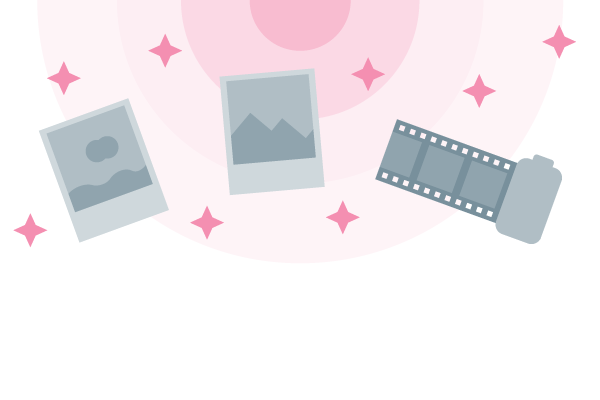
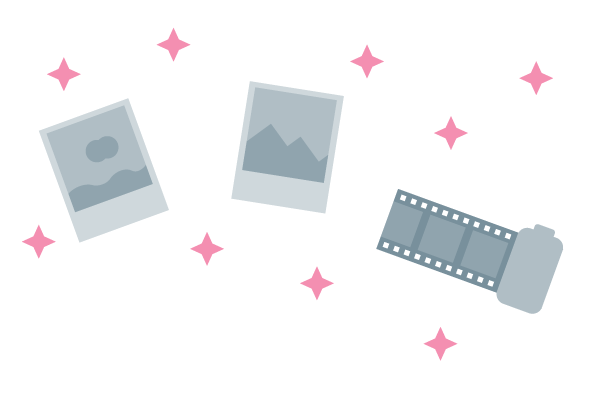
5.6
- Redesigned some images and made them smaller to improve loading times
- Changed a detail on the CV
- Added a logo and a website I made for a college project

diff --git a/es/index.html b/es/index.html
@@ -83,7 +83,7 @@
                     <p>Cursando 4º de Biología (Universidad de La Laguna 2015 - , itinerancia en Universidad de Valencia durante el curso 2018 - 2019)</p>
                     <p>Arbitro Regional de kárate competitivo (2016 - 2018)</p>
                     <p>Diseño de iconos, logos e IU en Dots Illustration (2015 - Presente)</p>
-                    <p>Certificado Computer Science 101 en Stanford Online (Accomplishment 86%)</p>
+                    <p>Certificados: Computer Science 101 en Stanford Online (Accomplishment 86%)</p>
                 </div>
                 <div class="col s12 m3 l3 xl3">
                     <p class="oospink-text">Habilidades</p>
@@ -192,7 +192,7 @@
                     <a href="https://plus.google.com/+LaureanoRuizP%C3%A9rez/posts/NvJfTHqBYvA">
                         <div class="card  md2card">
                             <div class="card-image">
-                                <img src="../img/playlists_covers.jpg">
+                                <img src="../img/playlists_covers.png">
                             </div>
                             <div class="card-content">
                                 <a class="card-title left">Portadas Playlists</a>
@@ -209,6 +209,19 @@
                             </div>
                             <div class="card-content">
                                 <a class="card-title left">Jornadas de Genética</a>
+                            </div>
+                        </div>
+                    </a>
+                </div>
+                <!-- ANAGAREST1 LOGO -->
+                <div class="col s12 m4 l3 xl3">
+                    <a href="https://http://anagarest1.es">
+                        <div class="card md2card">
+                            <div class="card-image">
+                                <img src="../img/anagarest1_logo.png">
+                            </div>
+                            <div class="card-content">
+                                <a class="card-title left">Proyecto AnagaRest1</a>
                             </div>
                         </div>
                     </a>

diff --git a/index.html b/index.html
@@ -83,7 +83,7 @@
                     <p>Studying 4th of Biology (University of La Laguna 2015 - , itinerancy at University of Valencia during 2018 - 2019)</p>
                     <p>Regional Referee of Karate (2016 - 2018)</p>
                     <p>Icons, logos and UI design at Dots Illustration (2015 - Present)</p>
-                    <p>Computer Science 101 certificate on Stanford Online (Accomplishment 86%)</p>
+                    <p>Certificates: Computer Science 101 on Stanford Online (Accomplishment 86%)</p>
                 </div>
                 <div class="col s12 m3 l3 xl3">
                     <p class="oospink-text">Skills</p>
@@ -192,7 +192,7 @@
                     <a href="https://plus.google.com/+LaureanoRuizP%C3%A9rez/posts/NvJfTHqBYvA">
                         <div class="card  md2card">
                             <div class="card-image">
-                                <img src="img/playlists_covers.jpg">
+                                <img src="img/playlists_covers.png">
                             </div>
                             <div class="card-content">
                                 <a class="card-title left">Playlists Covers</a>
@@ -209,6 +209,19 @@
                             </div>
                             <div class="card-content">
                                 <a class="card-title left">Genetics Meeting</a>
+                            </div>
+                        </div>
+                    </a>
+                </div>
+                <!-- ANAGAREST1 LOGO -->
+                <div class="col s12 m4 l3 xl3">
+                    <a href="https://http://anagarest1.es">
+                        <div class="card md2card">
+                            <div class="card-image">
+                                <img src="img/anagarest1_logo.png">
+                            </div>
+                            <div class="card-content">
+                                <a class="card-title left">AnagaRest1 Project</a>
                             </div>
                         </div>
                     </a>
